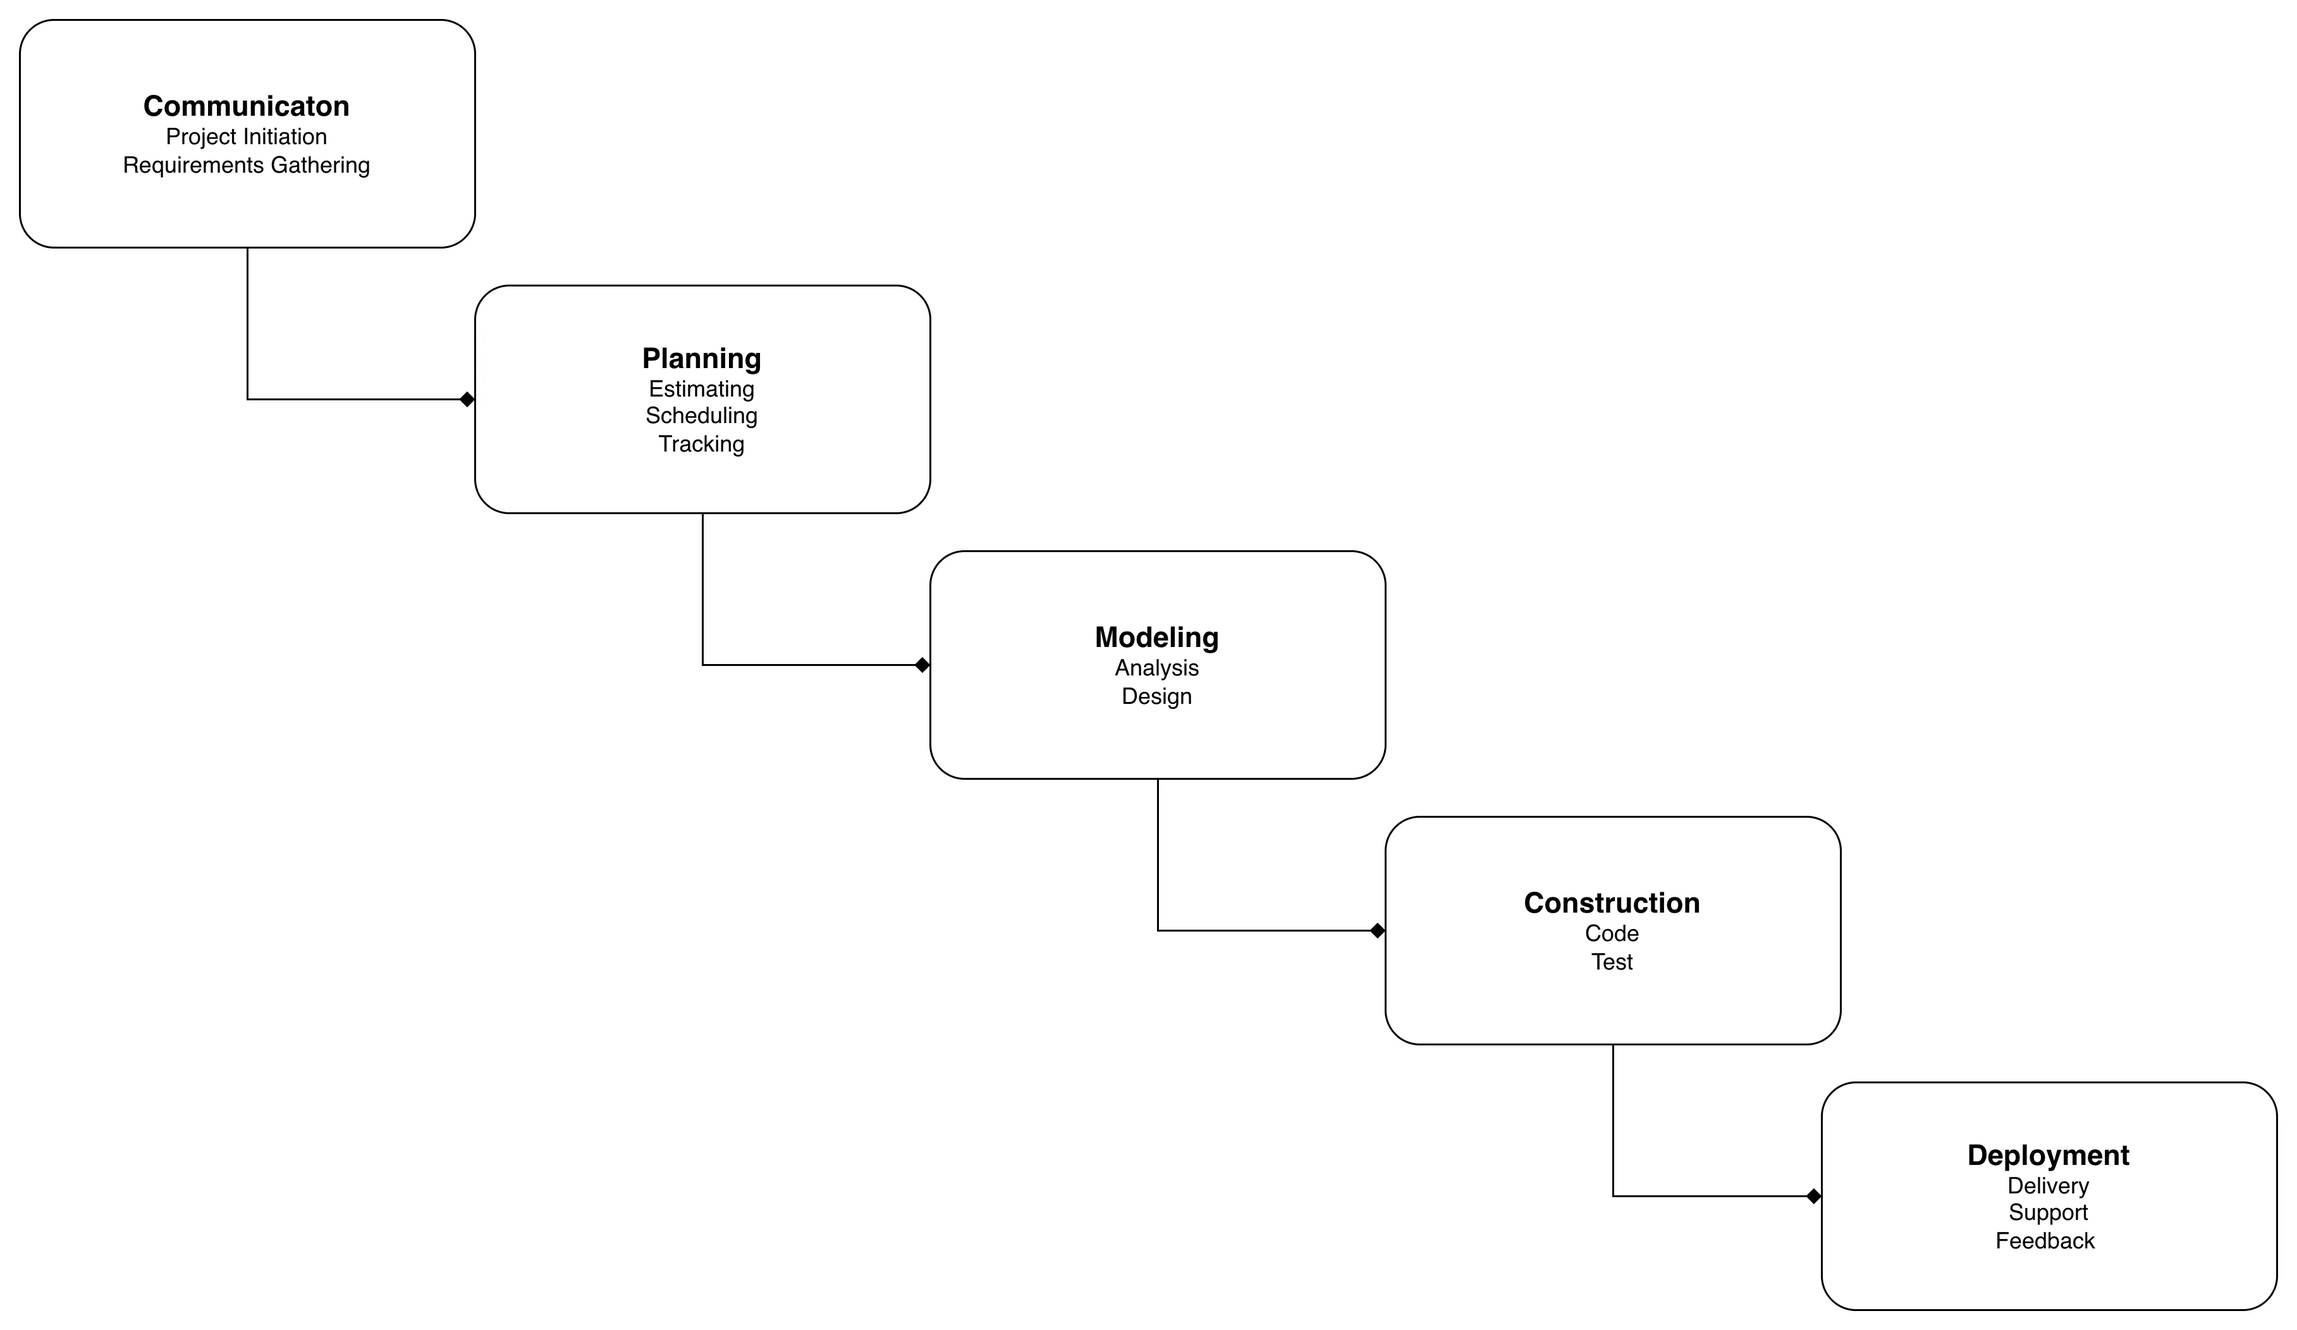
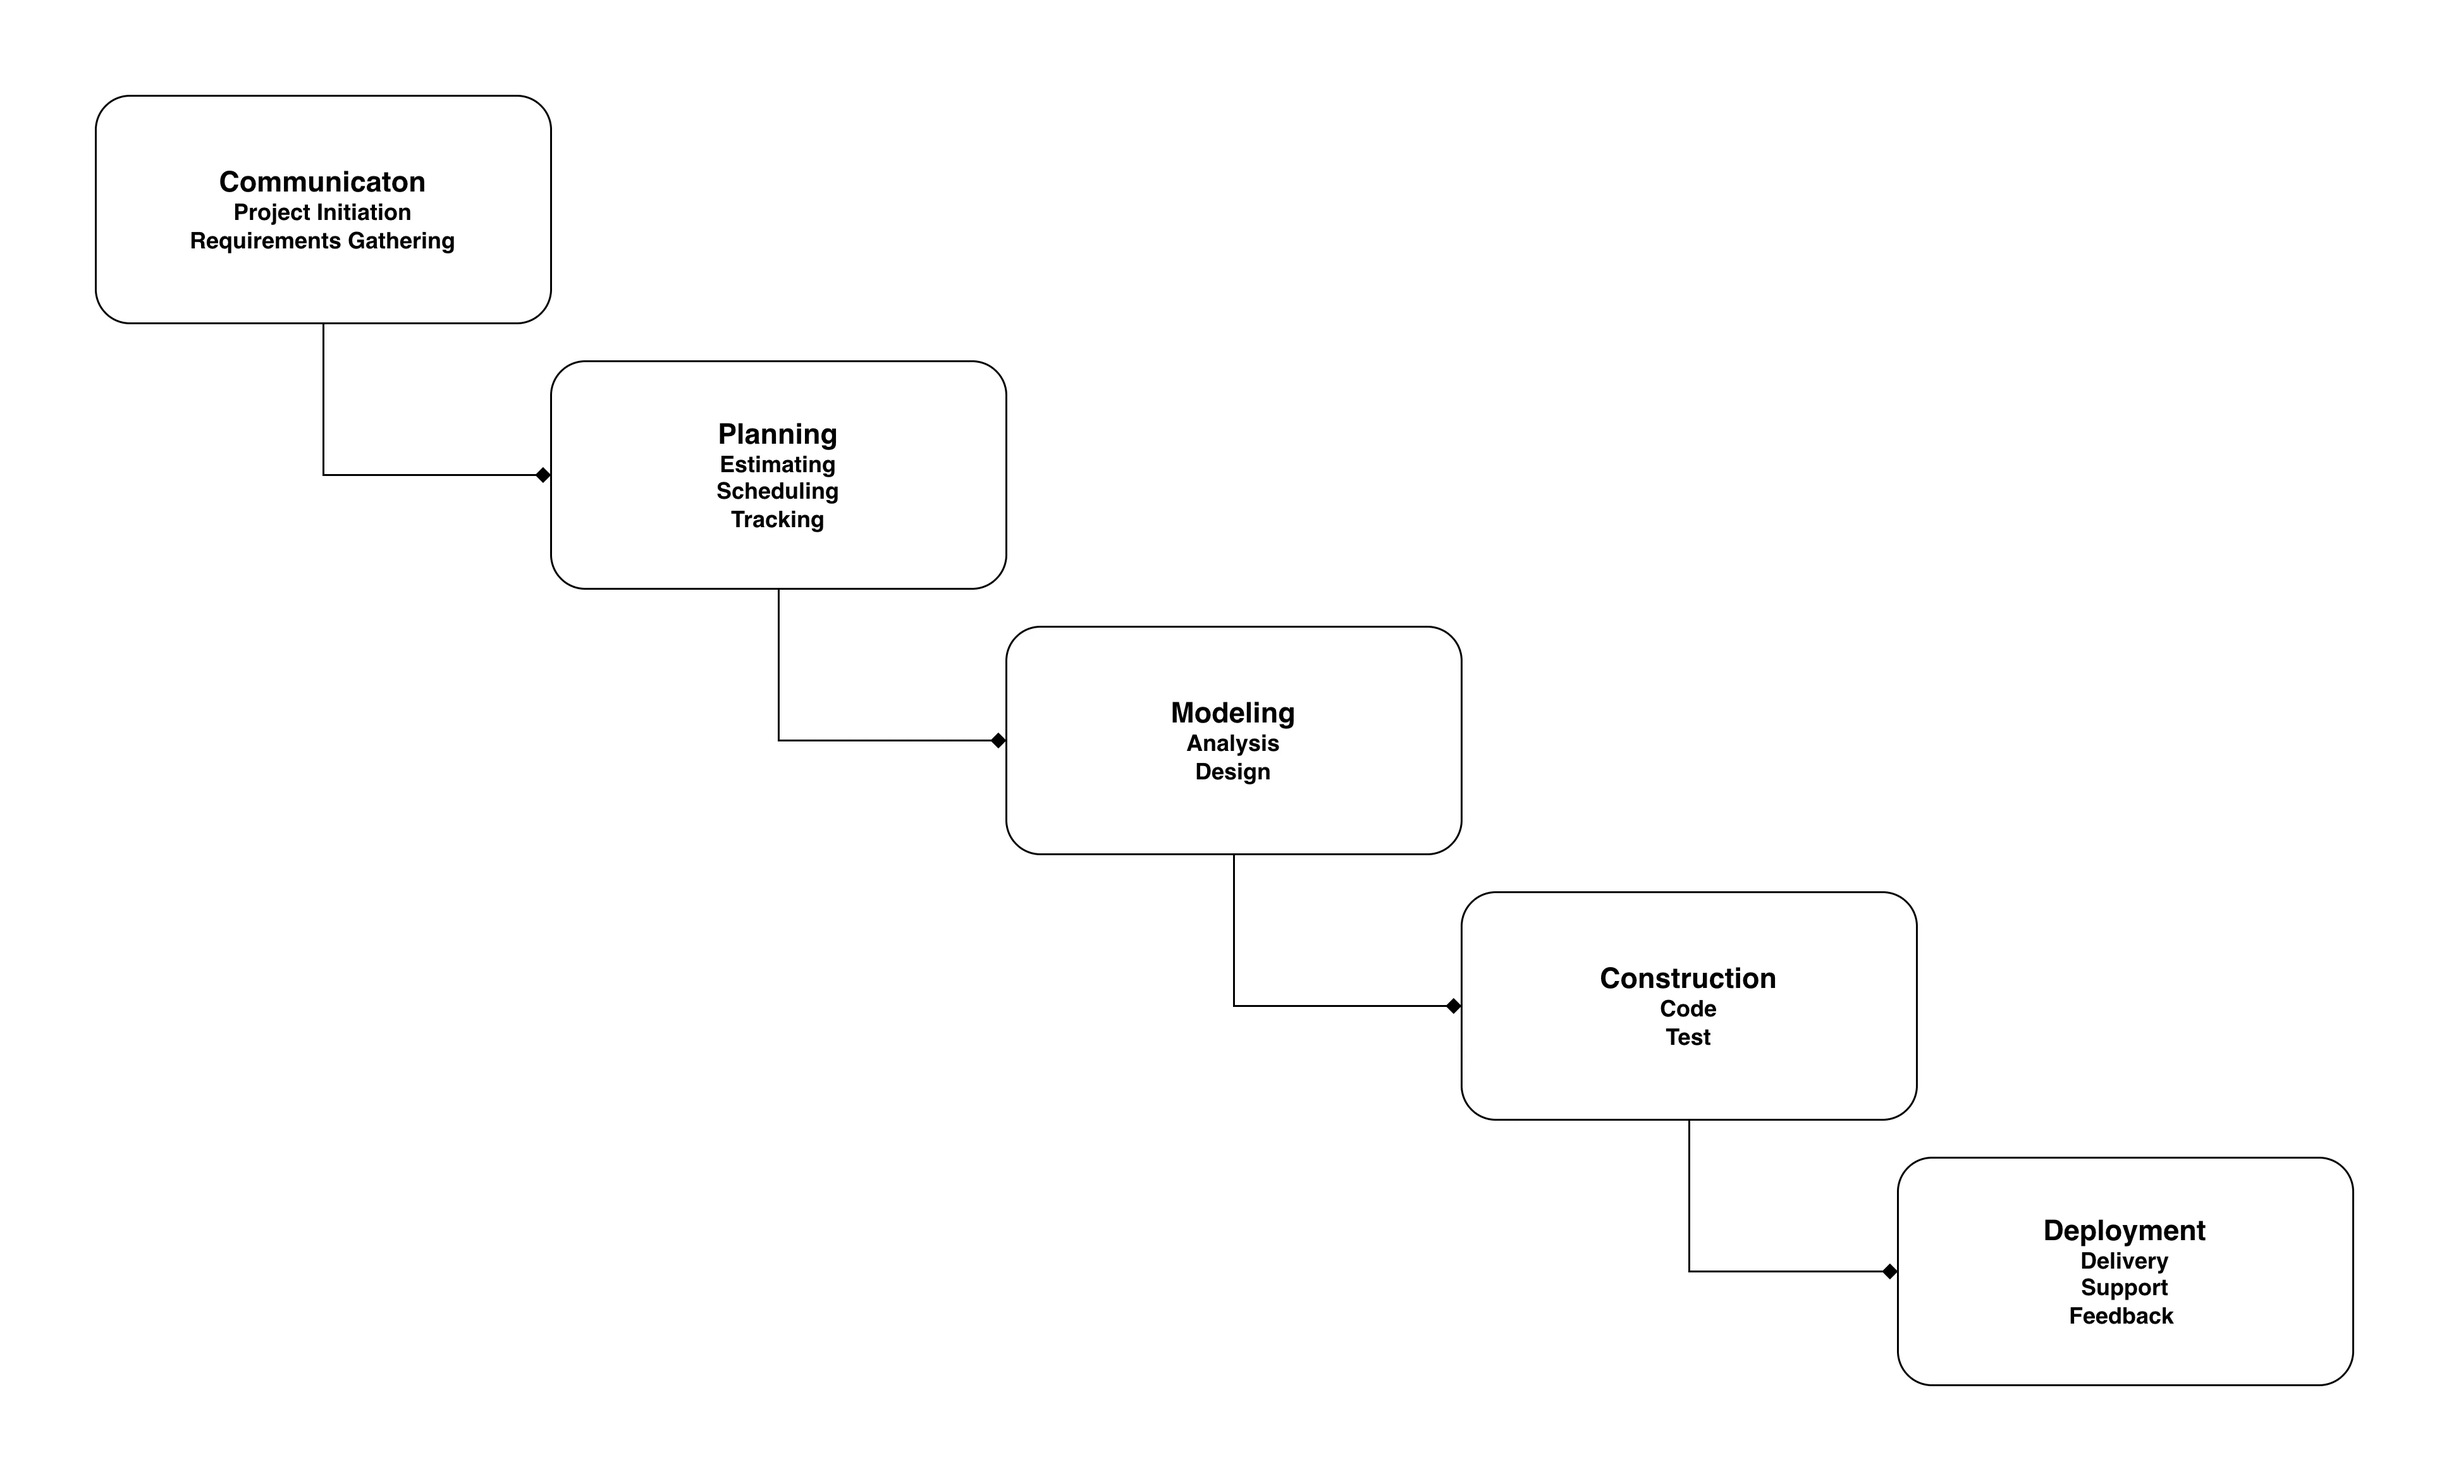
Feat: Images for agile methodology blog initiated

diff --git a/src/content/blog/agile-development-methodologies.md b/src/content/blog/agile-development-methodologies.md
@@ -1,7 +1,7 @@
 ---
 title: 'Agile Development: Frameworks, Principles & Practices'
 description: 'Learn about Agile development methodologies including Scrum, XP, Kanban, and DevOps. Understand agility principles, sprint planning, and how to deliver software iteratively.'
-pubDate: 2026-02-01
+pubDate: 2026-01-31
 author: 'Rohan Nandan'
 image: 'image5.webp'
 tags: ['Intro to Software Engineering']
@@ -28,8 +28,6 @@ Every software project needs a "road map" or generic software process of some ki
 5. Documents should **evolve with the software** and should not delay the start of construction
 6. **Involve stakeholders early and frequently** in the development process
 7. Testers need to become involved in the process **prior to software construction**
-
----
 
 ## **What is Agility?**
 
@@ -111,6 +109,8 @@ XP is an agile methodology that emphasizes technical practices and close collabo
 | **XP Coding** | Construct unit tests before coding; uses pair programming |
 | **XP Testing** | Unit tests executed daily; acceptance tests defined by customer |
 
+![XP Model|large](/images/image5.2.webp)
+
 ### **Pros**
 
 - Emphasizes customer involvement
@@ -168,6 +168,8 @@ DevOps bridges the gap between development and operations, emphasizing automatio
 | **Continuous Integration** | Code with new functionality added to existing running code |
 | **Continuous Deployment** | Integrated code deployed to production environment |
 | **Continuous Monitoring** | Operations staff proactively monitor software performance |
+
+![DevOps Model|large](/images/image5.4.webp)
 
 ### **Pros**
 

diff --git a/src/content/blog/prototype-development-and-software-maintenance.md b/src/content/blog/prototype-development-and-software-maintenance.md
@@ -1,7 +1,7 @@
 ---
 title: 'Prototype Development: Guidelines, Evaluation & Software Maintenance'
 description: 'Learn the complete prototype development process from first prototype guidelines to release candidates and software maintenance types. Essential guide for iterative development.'
-pubDate: 2026-01-31
+pubDate: 2026-02-01
 author: 'Rohan Nandan'
 image: 'image1.webp'
 tags: ['Intro to Software Engineering']

diff --git a/src/content/blog/what-is-software.md b/src/content/blog/what-is-software.md
@@ -74,8 +74,6 @@ Four essential attributes define quality software:
 
 ## **Software Engineering as a Layered Technology**
 
-![Layered Technology|small](/images/image1.1.webp)
-
 Think of software engineering as four stacked layers:
 
 1. **Quality Focus** — Forms the foundation. Every engineering approach needs organizational commitment to quality and continuous improvement
